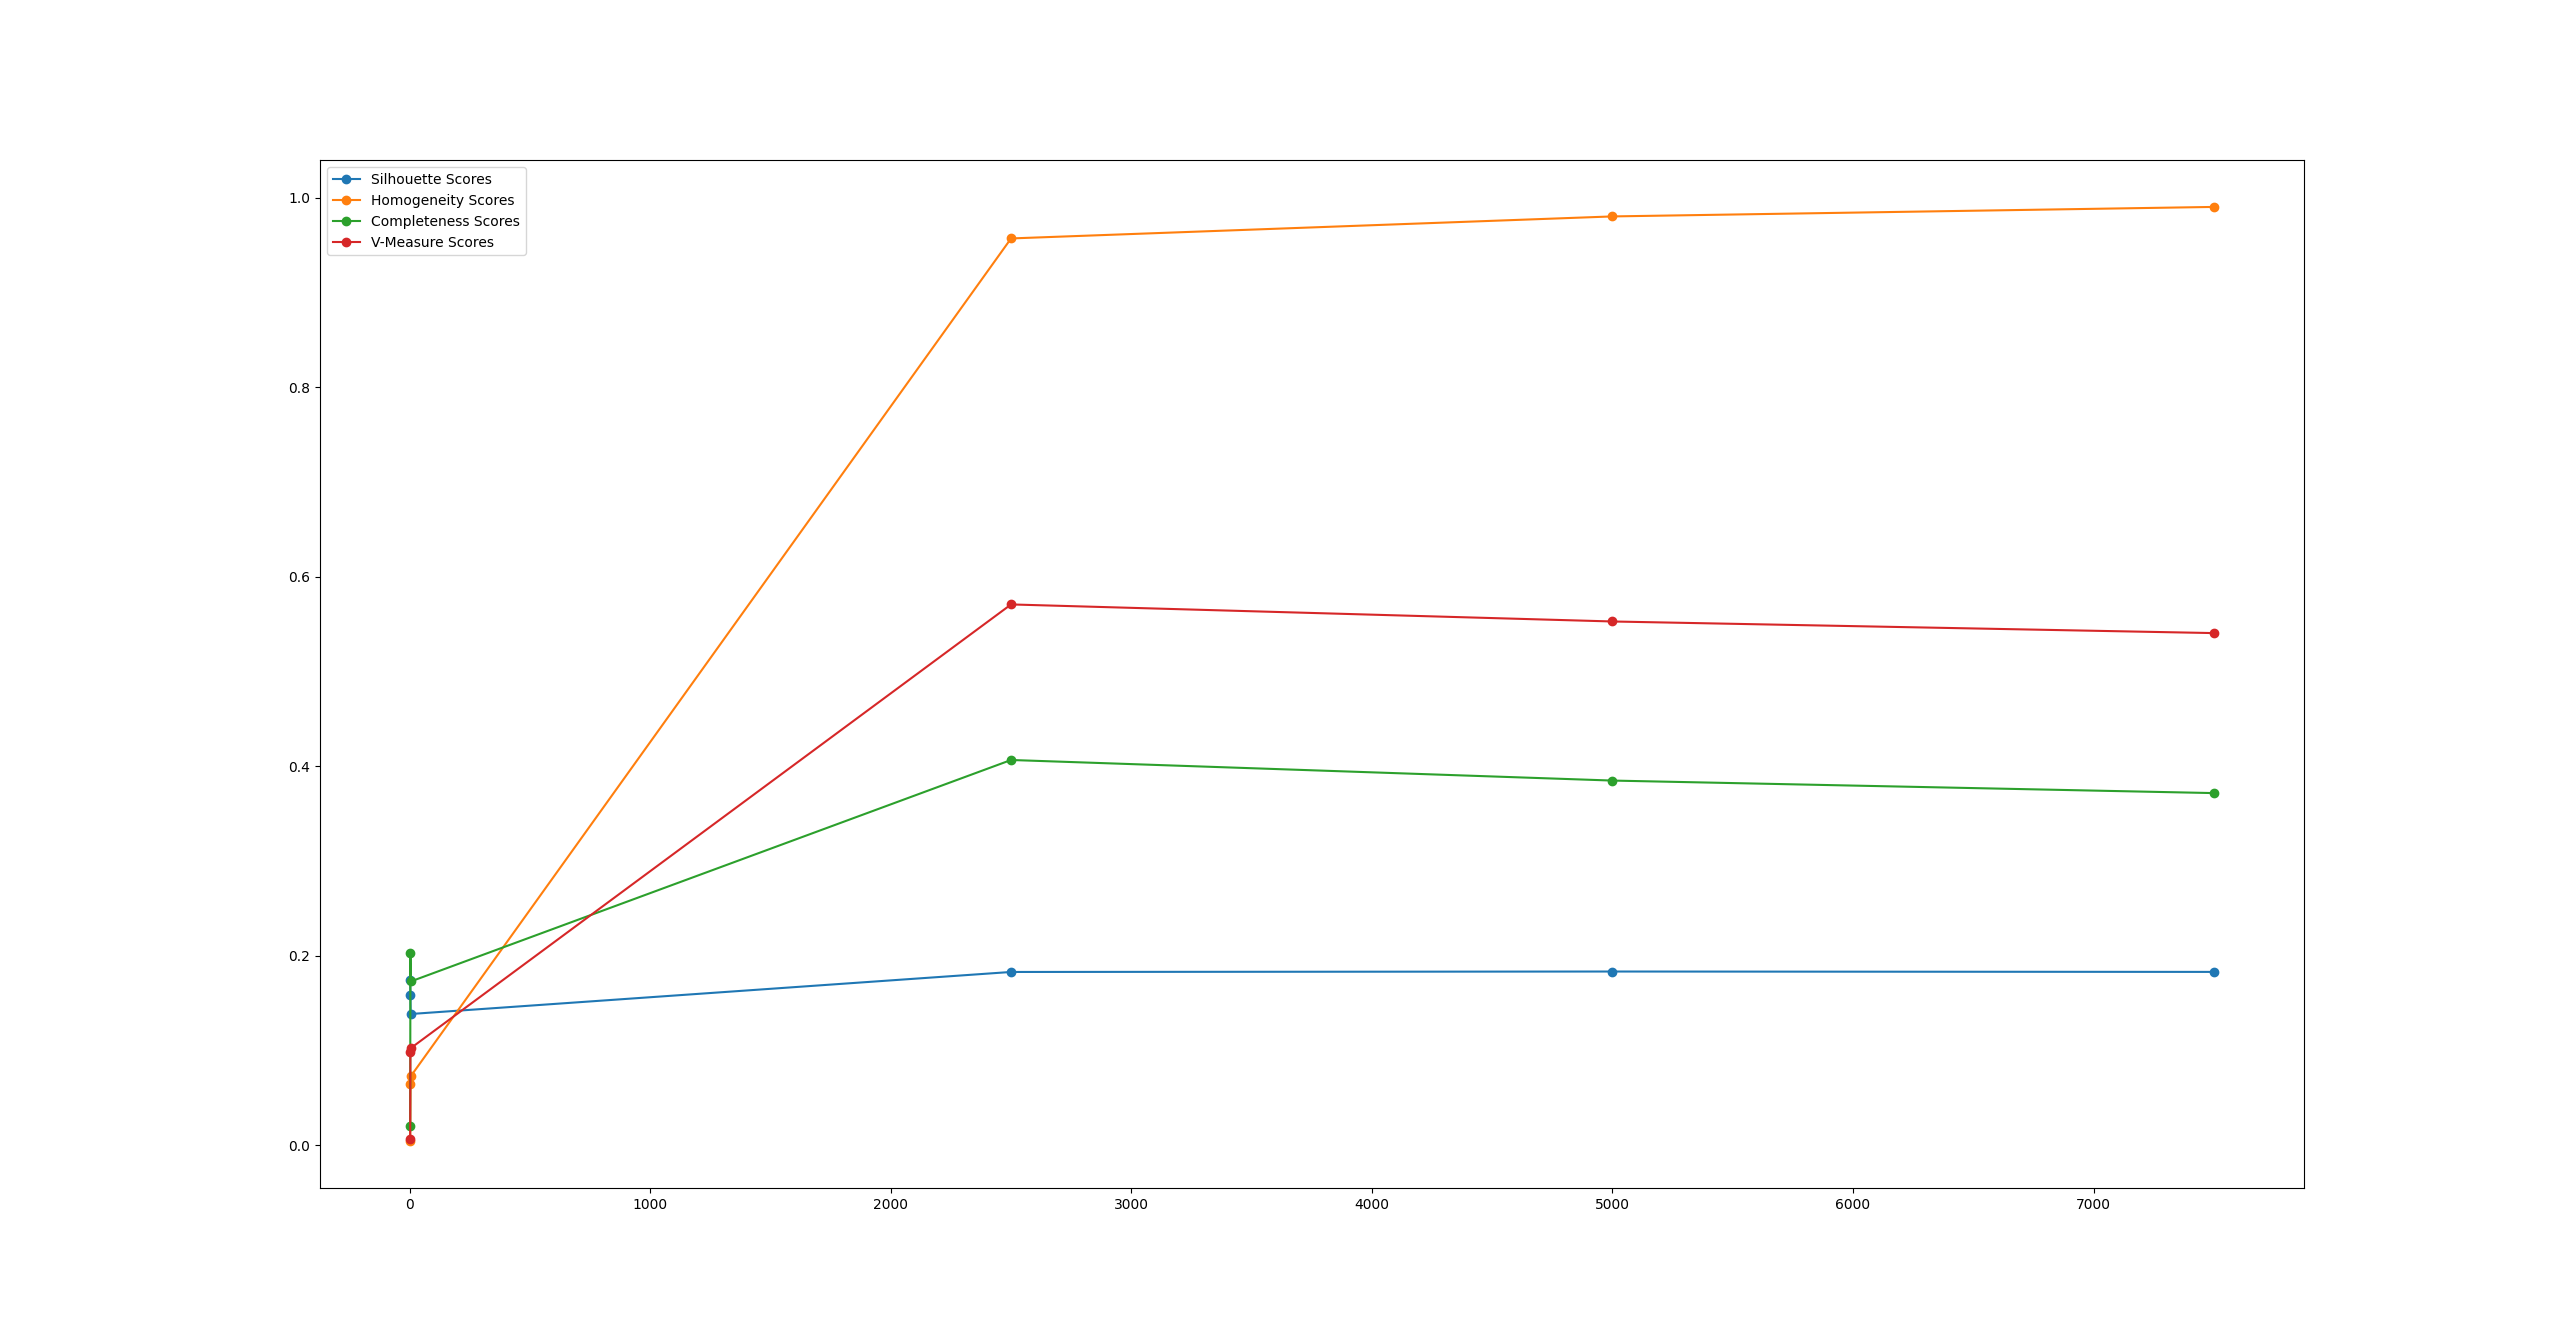
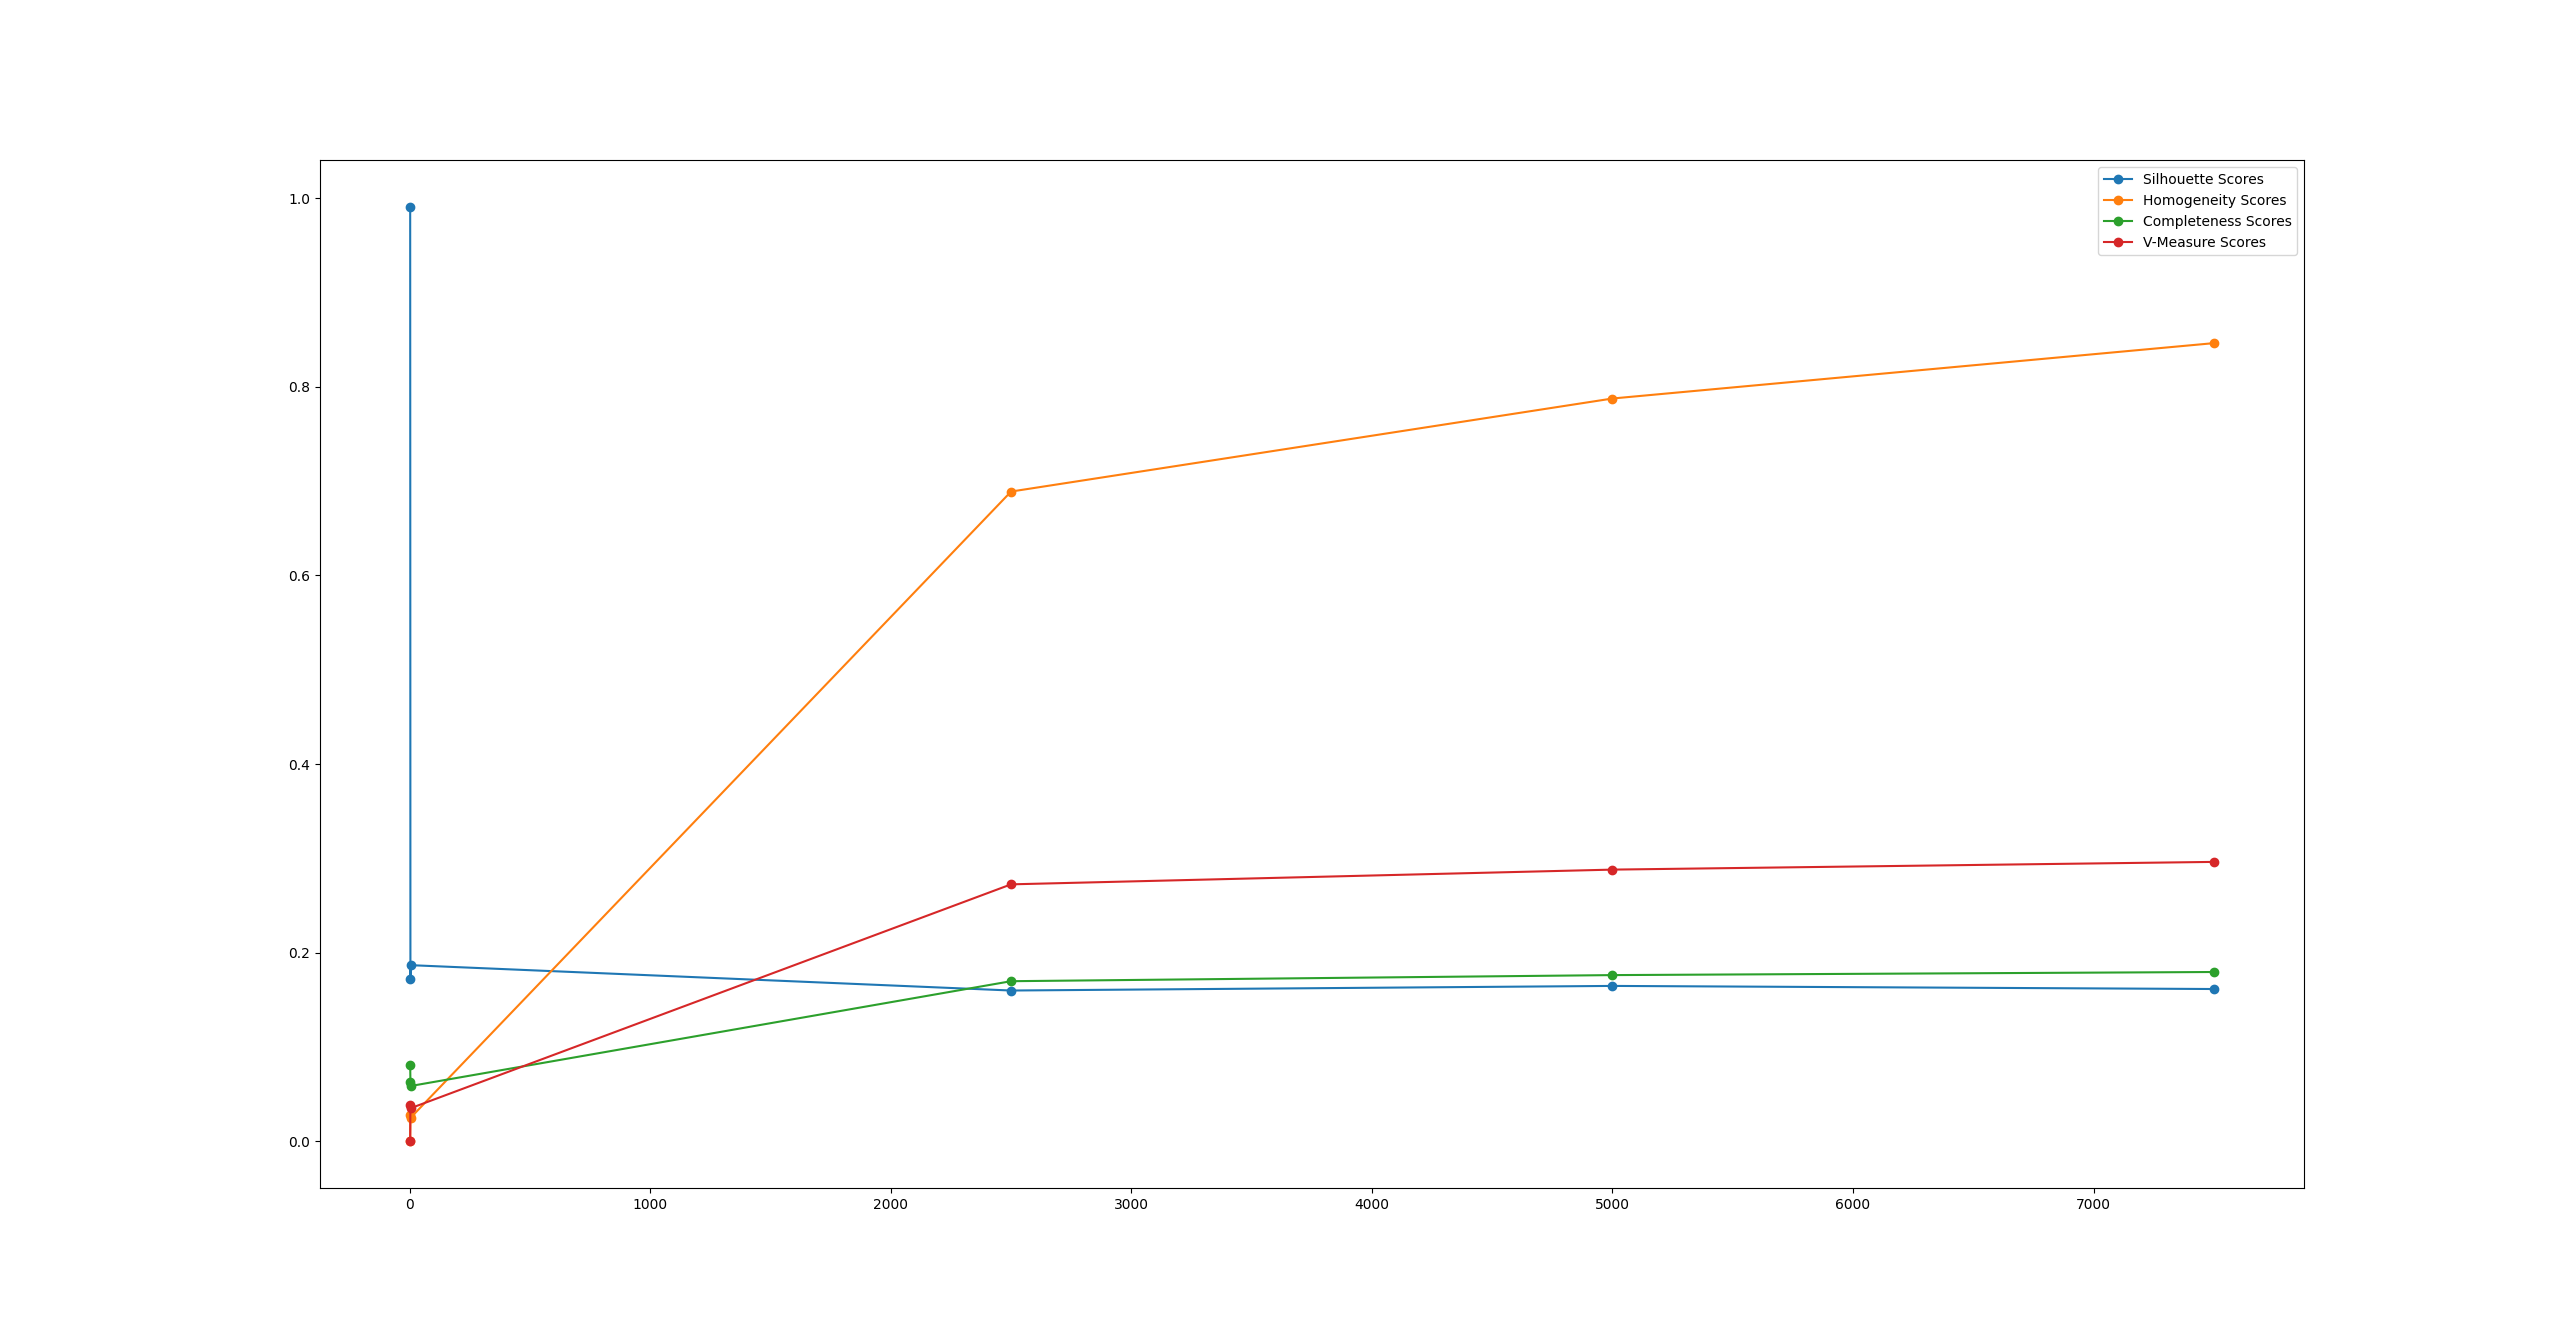
Hopefully finished data for part 1

diff --git a/em.py b/em.py
@@ -1,5 +1,6 @@
 from sklearn.mixture import GaussianMixture
 from sklearn import metrics
+from sklearn.preprocessing import normalize
 import matplotlib.pyplot as plt
 import numpy as np
 
@@ -14,10 +15,54 @@ from enum import Enum
 # https://scikit-learn.org/stable/modules/mixture.html
 # https://scikit-learn.org/stable/modules/generated/sklearn.mixture.GaussianMixture.html#sklearn.mixture.GaussianMixture
 
-
 class MeanInit(Enum):
     RANDOM = 'random'
     KM_PP = 'k-means++'
+
+
+def graph_evaluations(task: Task, components_of_interest):
+    bic_scores = []
+    homogeneity_scores = []
+    completeness_scores = []
+    v_measure_scores = []
+
+    for components in components_of_interest:
+        scores = evaluate_clustering(task, components)
+        bic_scores.append(scores[0])
+        homogeneity_scores.append(scores[1])
+        completeness_scores.append(scores[2])
+        v_measure_scores.append(scores[3])
+
+    fig, ax = plt.subplots(1, 2)
+    ax[0].set_title('Evaluation Scores')
+    ax[0].set_xlabel("Components")
+    ax[0].set_ylabel("Score")
+    ax[1].set_title('BIC Scores')
+    ax[1].set_xlabel("Components")
+    ax[1].set_ylabel("Score")
+
+    ax[0].plot(components_of_interest, homogeneity_scores, label='Homogeneity Scores', marker="o", drawstyle="default", linestyle='solid')
+    ax[0].plot(components_of_interest, completeness_scores, label='Completeness Scores', marker="o", drawstyle="default", linestyle='solid')
+    ax[0].plot(components_of_interest, v_measure_scores, label='V-Measure Scores', marker="o", drawstyle="default", linestyle='solid')
+
+    ax[1].plot(components_of_interest, bic_scores, marker="o", drawstyle="default", linestyle='solid')
+
+    ax[0].legend(loc="best")
+    plt.show()
+    return bic_scores, homogeneity_scores, completeness_scores, v_measure_scores
+
+
+def evaluate_clustering(task: Task, component_count: int):
+    sample_set = data_utils.get_all_samples(task)
+    clustering = create_clustering(sample_set, component_count, MeanInit.KM_PP)
+    predicted_labels = clustering.predict(sample_set.samples)
+
+    bic = clustering.bic(sample_set.samples)
+    homogeneity = metrics.homogeneity_score(sample_set.labels, predicted_labels)
+    completeness = metrics.completeness_score(sample_set.labels, predicted_labels)
+    v_measure = metrics.v_measure_score(sample_set.labels, predicted_labels)
+
+    return bic, homogeneity, completeness, v_measure
 
 
 def create_graph(task: Task):
@@ -59,7 +104,7 @@ def find_best_cluster(sample_set: SampleSet, init: MeanInit, trials_per_k: int, 
     return (best_k, clustering, score), all_scores
 
 
-def create_clustering(sample_set: SampleSet, k: int, init: MeanInit, trials: int):
+def create_clustering(sample_set: SampleSet, k: int, init: MeanInit, trials: int = 1):
     clusters = GaussianMixture(n_components=k,
                                random_state=0,
                                covariance_type='full',
